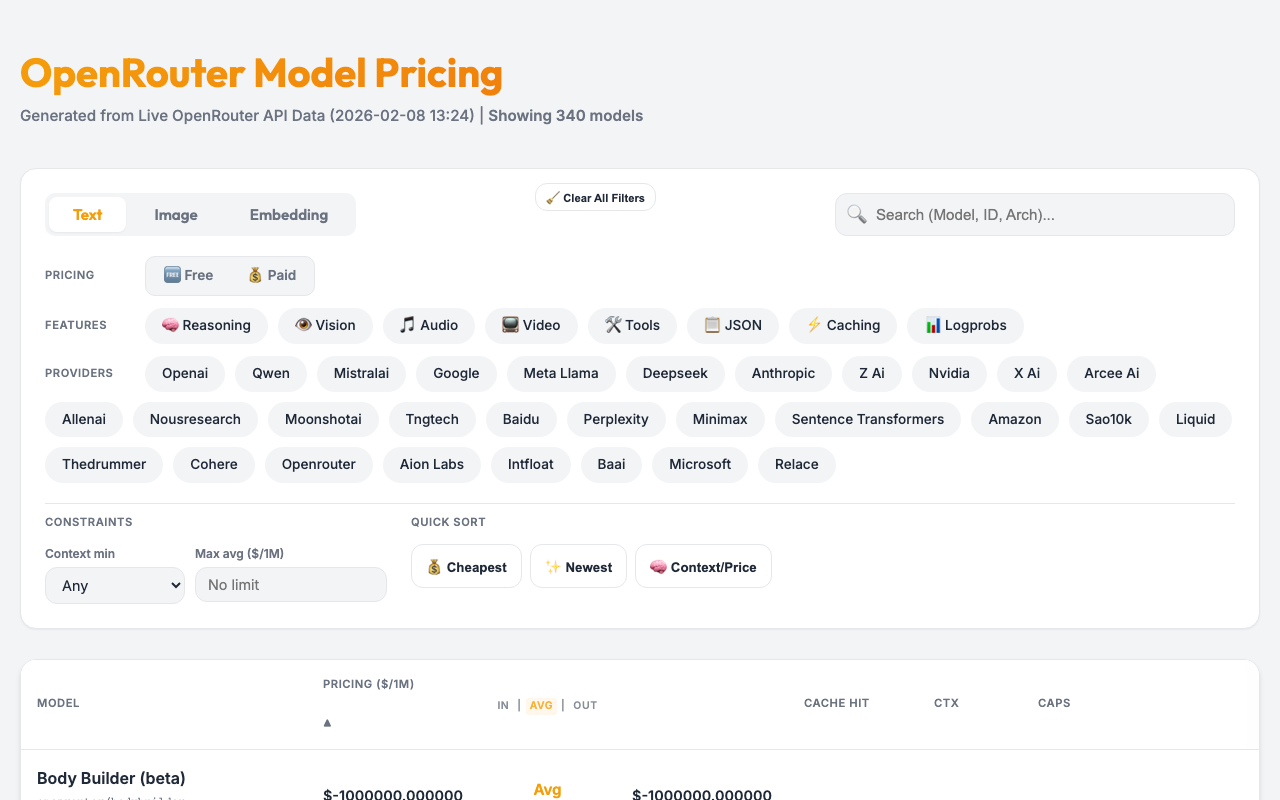
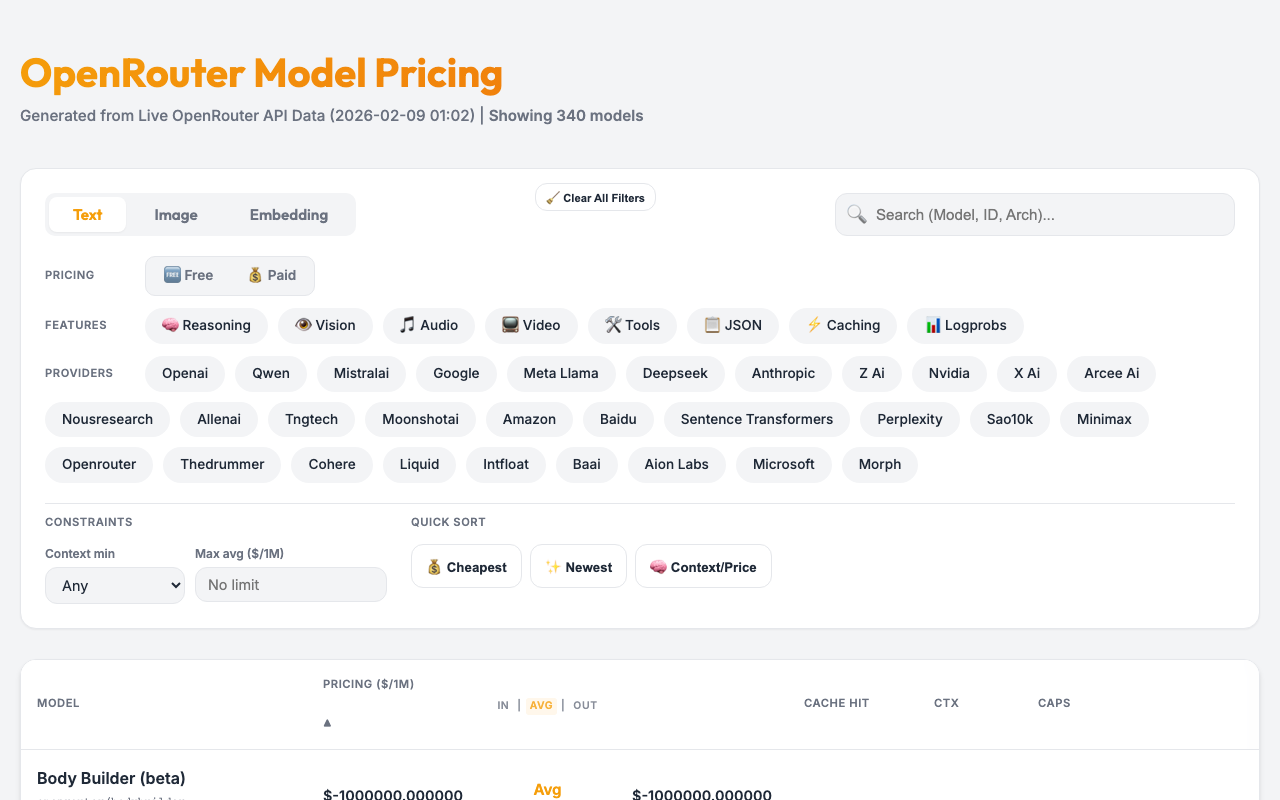
chore: automated pricing update (2026-02-09 01:02:51)
🔄 Changed Models (2): moonshotai/kimi-k2.5, opengvlab/internvl3-78b

diff --git a/docs/index.html b/docs/index.html
@@ -634,7 +634,7 @@
     <div class="container">
         <header>
             <h1>OpenRouter Model Pricing</h1>
-            <div class="meta">Generated from Live OpenRouter API Data (2026-02-08 13:24)</div>
+            <div class="meta">Generated from Live OpenRouter API Data (2026-02-09 01:02)</div>
         </header>
 
         <div class="controls">
@@ -1025,9 +1025,9 @@
         "instruct_type": null
       },
       "pricing": {
-        "prompt": "0.00000045",
-        "completion": "0.00000225",
-        "input_cache_read": "0.000000070000002"
+        "prompt": "0.0000003",
+        "completion": "0.0000015",
+        "input_cache_read": "0.00000005"
       },
       "top_provider": {
         "context_length": 262144,
@@ -5971,9 +5971,9 @@
         "instruct_type": null
       },
       "pricing": {
-        "prompt": "0.0000001",
-        "completion": "0.00000039",
-        "input_cache_read": "0.00000005"
+        "prompt": "0.00000015",
+        "completion": "0.0000006",
+        "input_cache_read": "0.000000075"
       },
       "top_provider": {
         "context_length": 32768,
@@ -18536,7 +18536,7 @@
   ],
   "other": []
 };
-        window.providerOptions = ['openai', 'qwen', 'mistralai', 'google', 'meta-llama', 'deepseek', 'anthropic', 'z-ai', 'nvidia', 'x-ai', 'arcee-ai', 'allenai', 'nousresearch', 'moonshotai', 'tngtech', 'baidu', 'perplexity', 'minimax', 'sentence-transformers', 'amazon', 'sao10k', 'liquid', 'thedrummer', 'cohere', 'openrouter', 'aion-labs', 'intfloat', 'baai', 'microsoft', 'relace', 'neversleep', 'morph', 'bytedance-seed', 'inflection', 'thenlper', 'inception', 'ai21', 'stepfun-ai', 'ibm-granite', 'mancer', 'gryphe', 'eleutherai', 'prime-intellect', 'meituan', 'writer', 'alibaba', 'essentialai', 'raifle', 'alfredpros', 'switchpoint', 'upstage', 'stepfun', 'nex-agi', 'deepcogito', 'tencent', 'cognitivecomputations', 'alpindale', 'opengvlab', 'anthracite-org', 'bytedance', 'xiaomi', 'undi95', 'kwaipilot'];
+        window.providerOptions = ['openai', 'qwen', 'mistralai', 'google', 'meta-llama', 'deepseek', 'anthropic', 'z-ai', 'nvidia', 'x-ai', 'arcee-ai', 'nousresearch', 'allenai', 'tngtech', 'moonshotai', 'amazon', 'baidu', 'sentence-transformers', 'perplexity', 'sao10k', 'minimax', 'openrouter', 'thedrummer', 'cohere', 'liquid', 'intfloat', 'baai', 'aion-labs', 'microsoft', 'morph', 'inception', 'thenlper', 'bytedance-seed', 'relace', 'neversleep', 'ai21', 'inflection', 'upstage', 'cognitivecomputations', 'meituan', 'tencent', 'deepcogito', 'undi95', 'writer', 'alpindale', 'alfredpros', 'gryphe', 'ibm-granite', 'opengvlab', 'anthracite-org', 'raifle', 'xiaomi', 'stepfun', 'bytedance', 'mancer', 'prime-intellect', 'nex-agi', 'switchpoint', 'essentialai', 'stepfun-ai', 'kwaipilot', 'eleutherai', 'alibaba'];
         let currentTab = 'text';
         let sortKey = 'price_avg';
         let sortAsc = true;
